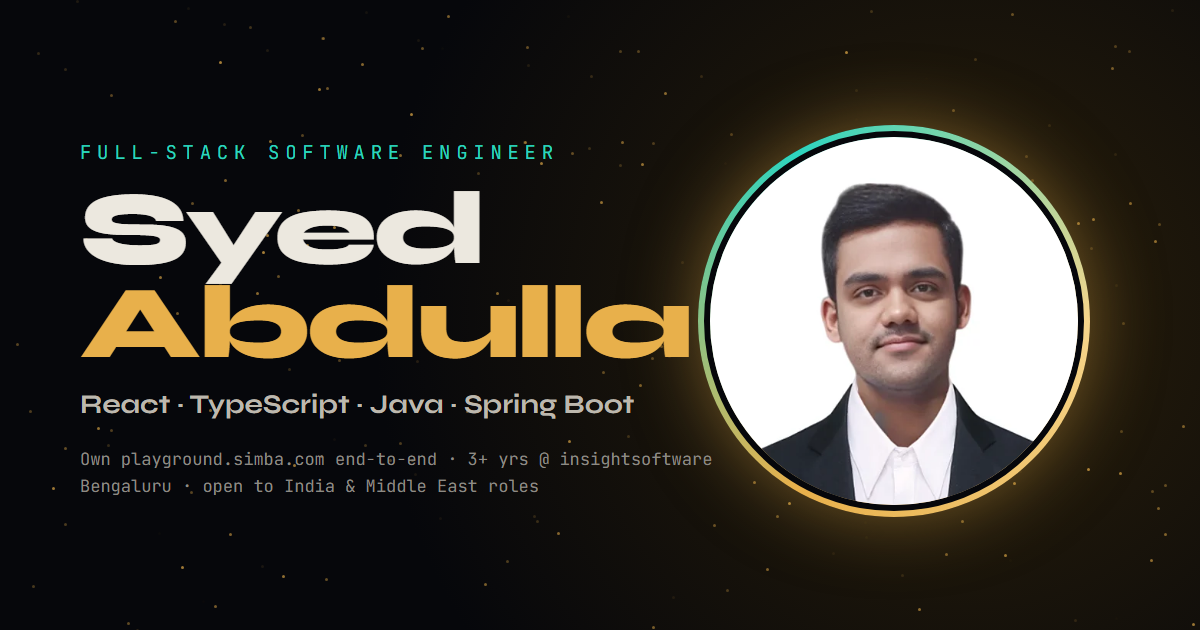
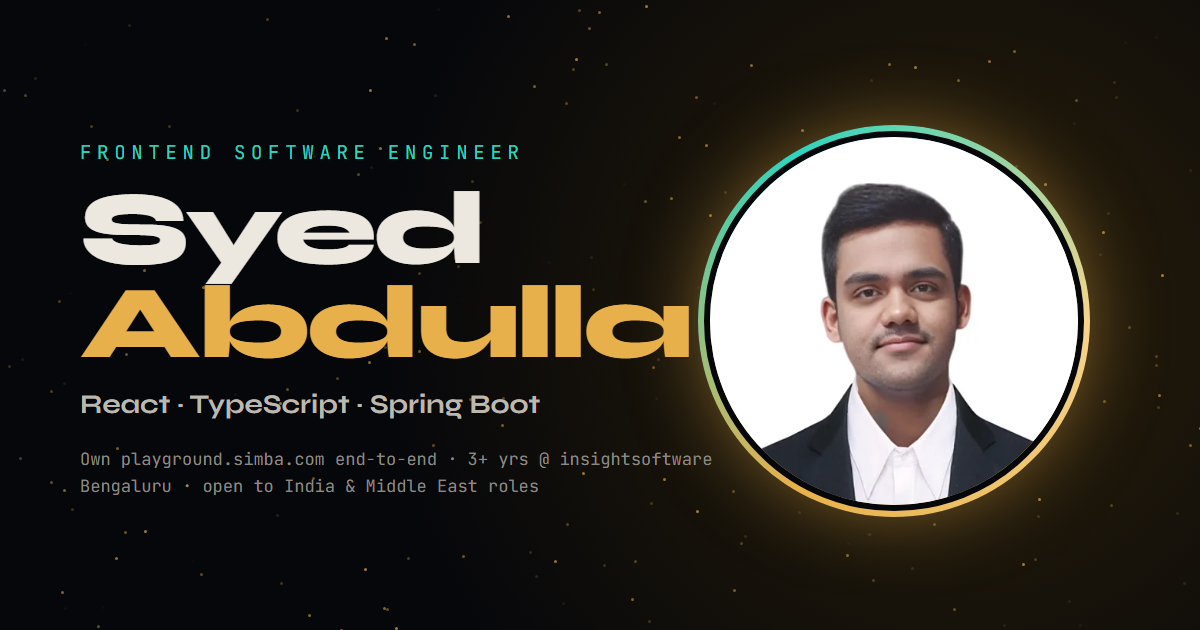
Frontend-first positioning on site and résumé
- Headline/title: Frontend Software Engineer (React · TypeScript), full-stack
  with Spring Boot; backend kept as a supporting strength
- Site (EN + AR), meta/OG/JSON-LD, card, QR vCard, .vcf, manifest, og.png
- Résumé v15 India + GCC headlines and summary; CLAUDE.md records the decision

Changed region(s): [[0.0925, 0.2111, 0.3083, 0.2714], [0.3392, 0.2111, 0.4625, 0.2714], [0.3083, 0.6333, 0.5242, 0.6635]]

diff --git a/index.html b/index.html
@@ -4,9 +4,9 @@
 <meta charset="utf-8" />
 <meta name="viewport" content="width=device-width, initial-scale=1" />
 <title>Syed Abdulla — Software Engineer</title>
-<meta name="description" content="Syed Abdulla — Full-Stack Software Engineer (React · TypeScript · Java · Spring Boot). 3+ years building enterprise BI at insightsoftware, Bengaluru. Owns the public Playground at playground.simba.com end-to-end." />
-<meta property="og:title" content="Syed Abdulla — Full-Stack Software Engineer" />
-<meta property="og:description" content="React · TypeScript · Java · Spring Boot. Enterprise data visualization, 42% bundle cuts, WCAG, end-to-end ownership." />
+<meta name="description" content="Syed Abdulla — Frontend Software Engineer (React · TypeScript) with full-stack Spring Boot experience. 3+ years building enterprise BI at insightsoftware, Bengaluru. Owns the public Playground at playground.simba.com end-to-end." />
+<meta property="og:title" content="Syed Abdulla — Frontend Software Engineer" />
+<meta property="og:description" content="React · TypeScript, full-stack with Spring Boot. Enterprise data visualization, 42% bundle cuts, WCAG, end-to-end ownership." />
 <meta property="og:type" content="website" />
 <meta property="og:url" content="https://syedabdulla761.github.io/" />
 <meta property="og:image" content="https://syedabdulla761.github.io/og.png" />
@@ -14,7 +14,7 @@
 <meta name="twitter:card" content="summary_large_image" />
 <meta name="twitter:image" content="https://syedabdulla761.github.io/og.png" />
 <script type="application/ld+json">
-{"@context":"https://schema.org","@type":"Person","name":"Syed Abdulla","jobTitle":"Full-Stack Software Engineer","worksFor":{"@type":"Organization","name":"insightsoftware"},"address":{"@type":"PostalAddress","addressLocality":"Bengaluru","addressCountry":"IN"},"email":"mailto:syedabdulla761@gmail.com","url":"https://syedabdulla761.github.io/","sameAs":["https://www.linkedin.com/in/syed-abdulla-6467311b6/","https://github.com/syedabdulla761"],"alumniOf":"University Visvesvaraya College of Engineering","knowsAbout":["React","TypeScript","Java","Spring Boot","PostgreSQL","AG-Grid","WCAG"]}
+{"@context":"https://schema.org","@type":"Person","name":"Syed Abdulla","jobTitle":"Frontend Software Engineer","worksFor":{"@type":"Organization","name":"insightsoftware"},"address":{"@type":"PostalAddress","addressLocality":"Bengaluru","addressCountry":"IN"},"email":"mailto:syedabdulla761@gmail.com","url":"https://syedabdulla761.github.io/","sameAs":["https://www.linkedin.com/in/syed-abdulla-6467311b6/","https://github.com/syedabdulla761"],"alumniOf":"University Visvesvaraya College of Engineering","knowsAbout":["React","TypeScript","Java","Spring Boot","PostgreSQL","AG-Grid","WCAG"]}
 </script>
 <link rel="manifest" href="manifest.webmanifest" />
 <link rel="apple-touch-icon" href="icon-192.png" />
@@ -57,7 +57,7 @@
       <span class="line"><span class="reveal">Syed</span></span>
       <span class="line"><span class="reveal gold">Abdulla</span></span>
     </h1>
-    <p class="role">Full-Stack Software Engineer <b>·</b> React <b>·</b> TypeScript <b>·</b> Java <b>·</b> Spring Boot</p>
+    <p class="role">Frontend Software Engineer <b>·</b> React <b>·</b> TypeScript <b>·</b> full-stack with Spring Boot</p>
     <p class="tag"><span id="tag-pre">I build</span> <em id="typer"></em><span class="caret">|</span></p>
     <div class="hero-cta">
       <a href="#work" class="btn magnetic">View my work</a>
@@ -79,7 +79,7 @@
         <h2>Engineering with <span class="gold">ownership</span>, precision &amp; craft.</h2>
       </div>
       <div class="glass">
-        <p>Software Engineer with <b>3+ years</b> specialising in high-performance React architectures and enterprise data visualisation — now full-stack with <b>Spring Boot</b>.</p>
+        <p>Software Engineer with <b>3+ years</b> specialising in high-performance React architectures, data-heavy UIs and accessibility — with hands-on <b>Spring Boot</b> backend experience.</p>
         <p>I independently own high-impact features end-to-end — from library migrations and UI unifications to WCAG compliance — while maintaining <b>zero-spillover</b> sprint delivery.</p>
         <div class="badges">
           <span>🎓 UVCE CSE '23 · CGPA 9.09</span>
@@ -243,16 +243,16 @@
     <div class="wrap center">
       <div class="eyebrow">07 — Contact</div>
       <h2 class="big">Let's build something<br/><span class="gold">remarkable</span>.</h2>
-      <p class="sub">From Bengaluru to Dubai, Riyadh, Doha &amp; beyond — I'm open to conversations about full-stack and frontend-heavy roles.</p>
+      <p class="sub">From Bengaluru to Dubai, Riyadh, Doha &amp; beyond — I'm open to conversations about frontend and frontend-heavy full-stack roles.</p>
       <div class="holo-stage">
         <div class="holo-wrap">
           <div class="holo" id="holo" role="button" tabindex="0" aria-label="Business card — tap to flip">
             <div class="face front">
               <div class="hc-top"><span class="logo">S<span>A</span></span><img class="hc-photo" src="img/syed.webp" alt="" width="480" height="480" loading="lazy" decoding="async" /></div>
               <div class="hc-name">Syed Abdulla</div>
-              <div class="hc-role">Full-Stack Software Engineer</div>
+              <div class="hc-role">Frontend Software Engineer</div>
               <div class="hc-info"><span>✉ syedabdulla761@gmail.com</span><span>☏ +91 88676 18049</span><span>⌖ Bengaluru · India</span></div>
-              <div class="hc-stack">React · TypeScript · Java · Spring Boot</div>
+              <div class="hc-stack">React · TypeScript · Spring Boot</div>
               <div class="foil"></div>
             </div>
             <div class="face back">
@@ -303,10 +303,10 @@
     <button class="quick-x" id="quick-x" aria-label="Close">×</button>
     <div class="eyebrow">⚡ 30-second summary</div>
     <div class="q-head"><img src="img/syed.webp" alt="" width="480" height="480" loading="lazy" decoding="async" /><h3>Syed Abdulla</h3></div>
-    <p class="q-role">Full-Stack Software Engineer · insightsoftware</p>
+    <p class="q-role">Frontend Software Engineer · insightsoftware</p>
     <dl>
       <dt>Experience</dt><dd>3+ years (Feb 2023 – present) · Promoted to SE in 2 yrs</dd>
-      <dt>Core stack</dt><dd>React, TypeScript, Java, Spring Boot, PostgreSQL</dd>
+      <dt>Core stack</dt><dd>React, TypeScript, AG-Grid, accessibility (WCAG) · backend: Java, Spring Boot, PostgreSQL</dd>
       <dt>Domain</dt><dd>Enterprise BI &amp; embedded analytics — Simba (formerly Logi Symphony)</dd>
       <dt>Highlights</dt><dd>Own the public Playground end-to-end (playground.simba.com) · −42% grid bundle · 305 Jira tickets (95 bugs, 4 spikes) · +40% WCAG · 0 sprint spillovers</dd>
       <dt>Education</dt><dd>B.Tech CSE, UVCE Bengaluru · CGPA 9.09 · Siemens Scholar</dd>

diff --git a/main.js b/main.js
@@ -673,7 +673,7 @@ const AR_SRC = [
   ['.nav nav a[href="#about"]', 'نبذة عني'], ['.nav nav a[href="#impact"]', 'الإنجازات'], ['.nav nav a[href="#playground"]', 'Playground'], ['.nav nav a[href="#work"]', 'الخبرات'],
   ['.nav nav a[href="#skills"]', 'المهارات'], ['.nav nav a[href="#live"]', 'مباشر'], ['.nav nav a[href="#contact"]', 'تواصل'], ['#cv', 'السيرة الذاتية ↓'],
   // hero
-  ['.role', 'مهندس برمجيات Full-Stack <b>·</b> React <b>·</b> TypeScript <b>·</b> Java <b>·</b> Spring Boot'],
+  ['.role', 'مهندس برمجيات Frontend <b>·</b> React <b>·</b> TypeScript <b>·</b> Full-Stack مع Spring Boot'],
   ['#tag-pre', 'أبني'],
   ['.hero-cta a[href="#work"]', 'استعرض أعمالي'], ['.hero-cta a[href="#contact"]', 'لنتحدث'], ['#quick-btn', '⚡ ملخص في 30 ثانية'],
   ['.hero-meta', '<span>📍 بنغالورو، الهند</span><span>🌍 منفتح على فرص العمل في الهند والشرق الأوسط</span><span>🟢 أكثر من 3 سنوات · insightsoftware</span>'],
@@ -682,7 +682,7 @@ const AR_SRC = [
   ['#about .eyebrow', '01 — نبذة عني'],
   ['#about h2', 'هندسة برمجيات بروح <span class="gold">المسؤولية</span> والدقة والإتقان.'],
   ['#about .glass > p', [
-    'مهندس برمجيات بخبرة تزيد على <b>3 سنوات</b>، متخصص في تطبيقات React عالية الأداء و Data Visualization للمؤسسات — وأعمل الآن على الـ Full-Stack مع <b>Spring Boot</b>.',
+    'مهندس برمجيات بخبرة تزيد على <b>3 سنوات</b>، متخصص في تطبيقات React عالية الأداء والواجهات الغنية بالبيانات وإمكانية الوصول — مع خبرة عملية في الـ backend باستخدام <b>Spring Boot</b>.',
     'أتولى الميزات المهمة بنفسي من البداية إلى النهاية — من ترقية المكتبات وتوحيد الواجهات إلى معايير WCAG — مع تسليم كل sprint في موعده <b>دون أي تأخير</b>.']],
   ['#about .badges span', ['🎓 UVCE علوم الحاسب 2023 · المعدل 9.09', '🏅 منحة سيمنس', '⭐ «يفوق التوقعات» مرتين', '🚀 ترقية إلى Software Engineer خلال عامين']],
   ['#about blockquote', '«ملكية حقيقية للعمل، ومهارة تقنية، وروح تعاون.» <cite>— تقييم المدير</cite>'],
@@ -751,7 +751,7 @@ const AR_SRC = [
   // contact
   ['#contact .eyebrow', '07 — تواصل'],
   ['#contact h2', 'لنبنِ معًا شيئًا<br/><span class="gold">استثنائيًا</span>.'],
-  ['#contact .sub', 'من بنغالورو إلى دبي والرياض والدوحة وما بعدها — منفتح على فرص العمل في Frontend و Full-Stack.'],
+  ['#contact .sub', 'من بنغالورو إلى دبي والرياض والدوحة وما بعدها — منفتح على فرص العمل في Frontend و Full-Stack التي يغلب عليها الـ Frontend.'],
   ['.holo-hint', '↔ اسحب البطاقة لتدويرها · اضغط لقلبها'], ['.hc-scan', 'امسح لحفظ جهة الاتصال'], ['.hc-url', 'الاسم · الهاتف · البريد · LinkedIn — مباشرة إلى هاتفك'], ['.holo-actions a', '📇 حفظ جهة الاتصال'],
   ['.contact-row a[href^="https://wa.me"]', 'واتساب'],
   ['.clocks small', ['بنغالورو', 'دبي', 'الرياض', 'الدوحة']],
@@ -760,10 +760,10 @@ const AR_SRC = [
   ['.dock a', ['<span>⌂</span>الرئيسية', '<span>◉</span>مباشر', '<span>▤</span>الخبرات', '<span>✉</span>تواصل']], ['#dock-k', '<span>⌘</span>القائمة'],
   ['#ghint', '<span class="desk">✦ <b>اسحب</b> للتدوير · <b>اضغط مطوّلًا</b> لثقب أسود · <b>اضغط</b> لموجة صادمة · 🔇 شغّل <b>الصوت</b> للعزف</span><span class="touch">✦ <b>اسحب</b> للتدوير · <b>اضغط مطوّلًا</b> لثقب أسود · <b>اضغط</b> لموجة صادمة</span>'],
   // 30-second summary
-  ['#quick .eyebrow', '⚡ ملخص في 30 ثانية'], ['#quick .q-role', 'Full-Stack Software Engineer · insightsoftware'],
+  ['#quick .eyebrow', '⚡ ملخص في 30 ثانية'], ['#quick .q-role', 'Frontend Software Engineer · insightsoftware'],
   ['#quick dt', ['الخبرة', 'التقنيات', 'المجال', 'أبرز الإنجازات', 'التعليم', 'التقييمات', 'اللغات', 'الموقع', 'الجاهزية']],
   ['#quick dd', [
-    'أكثر من 3 سنوات (فبراير 2023 – الآن) · ترقية خلال عامين', 'React، TypeScript، Java، Spring Boot، PostgreSQL',
+    'أكثر من 3 سنوات (فبراير 2023 – الآن) · ترقية خلال عامين', 'React، TypeScript، AG-Grid، WCAG · الـ backend: Java، Spring Boot، PostgreSQL',
     'Enterprise BI و embedded analytics — Simba (سابقًا Logi Symphony)',
     'أتولى منصة Playground العامة (playground.simba.com) · تقليص الـ grid bundle بنسبة 42% · 305 تذكرة Jira (95 خطأ، 4 spikes) · تحسين WCAG بنسبة 40% · تسليم كل sprint دون تأخير',
     'بكالوريوس علوم الحاسب، UVCE بنغالورو · المعدل 9.09 · منحة سيمنس', '«يفوق التوقعات» في 2025 و2026',

diff --git a/extras.js b/extras.js
@@ -136,7 +136,7 @@ const flipCard = () => { drag = { start: angle }; settle(Math.round(angle / 180)
 // QR code (qrcode-generator, loaded globally) → portfolio URL
 try {
   // A vCard, not the site URL: whoever scans it is already here — give them a way to keep in touch
-  const VCARD = ['BEGIN:VCARD', 'VERSION:3.0', 'N:Abdulla;Syed;;;', 'FN:Syed Abdulla', 'TITLE:Full-Stack Software Engineer', 'ORG:insightsoftware',
+  const VCARD = ['BEGIN:VCARD', 'VERSION:3.0', 'N:Abdulla;Syed;;;', 'FN:Syed Abdulla', 'TITLE:Frontend Software Engineer', 'ORG:insightsoftware',
     'TEL;TYPE=CELL:+918867618049', 'EMAIL:syedabdulla761@gmail.com', 'URL:https://www.linkedin.com/in/syed-abdulla-6467311b6/',
     'URL:https://syedabdulla761.github.io/', 'ADR:;;;Bengaluru;;;India', 'END:VCARD'].join('\r\n');
   const qr = window.qrcode(0, 'L'); qr.addData(VCARD); qr.make();

diff --git a/sw.js b/sw.js
@@ -1,5 +1,5 @@
 // Network-first service worker: always fresh when online, still works offline.
-const CACHE = 'sa-portfolio-v12';
+const CACHE = 'sa-portfolio-v13';
 const CORE = ['./', 'index.html', 'style.css', 'main.js', 'extras.js', 'favicon.svg', 'icon-192.png', 'img/syed.webp', 'Syed_Abdulla_Resume.pdf'];
 
 self.addEventListener('install', e => {

diff --git a/CLAUDE.md b/CLAUDE.md
@@ -12,6 +12,7 @@ Read this whole file before changing anything. It records what was built, why, w
 - **Audience:** tech hirers in **India and the Middle East / GCC** (Dubai, Riyadh, Doha). Syed is open to roles in both.
 - **Goal:** a portfolio that is *memorable* (a layman should enjoy exploring it) **and** *recruiter-practical* (facts, résumé, contact in seconds).
 - **Look:** dark cosmic theme — near-black background, gold `#e8b04b` / ivory / teal `#2dd4bf` accents, glowing Three.js particles with bloom. The **8-pointed Khatam star** (two rotated squares) is the recurring motif: favicon, loader, cursor, card watermark, a particle shape. Nods to Indian + Islamic geometric art.
+- **Positioning: frontend specialist who works across the stack** (decided 2026-10-12). Lead with React/TypeScript, AG-Grid, accessibility; mention Spring Boot as "full-stack with Spring Boot" / "hands-on backend experience". Don't put Java/Spring Boot in headlines — backend work is recent and largely agent-assisted, and backend-led headlines route him to backend-depth interviews. Keep the Backend skills line and the folder bullet.
 - **Tone:** confident, metric-led. The résumé's real numbers carry the site.
 
 ## 2. Hard-won preferences (follow these)
@@ -42,7 +43,7 @@ Read this whole file before changing anything. It records what was built, why, w
 | `style.css` | All styles; tokens in `:root`; Arabic/RTL rules under `html[lang=ar]` / `[dir=rtl]` |
 | `main.js` (ES module) | Three.js scene: 16K particles desktop / 12K mobile morphing between shapes per section, bloom (UnrealBloomPass), gestures (tap = shockwave, hold = black hole, drag = orbit), gyro parallax, WebAudio sound (harp strum, scroll filter, rumble), reveals/counters/scramble, Lenis, i18n (`AR_SRC`), ⌘K palette (`ACTIONS`), cursor. Exposes `window.SA` (event bus `SA.emit/on`, `tone/pluck/boom`, `setShape`, `shockwave`, `scrollTo`, `actions`, `toast`, …) |
 | `extras.js` (module, loads after main) | Live tiles (IST clock/status, Open-Meteo weather, visitor-timezone overlap, career counter), holographic card (drag/flick spin, QR via `qrcode-generator`), exploration game (8 hidden bugs on real content + 14 achievements, progress in `localStorage` key `sa-progress-v1`), Playground screen carousel |
-| `sw.js` | Network-first service worker. **Bump `CACHE` (currently `sa-portfolio-v12`) on every deploy.** |
+| `sw.js` | Network-first service worker. **Bump `CACHE` (currently `sa-portfolio-v13`) on every deploy.** |
 | `img/` | Playground screenshots (WebP), `playground-themes.gif`, headshot `syed.webp/.jpg` (square) + `syed-round.png` (résumé). Source photos (`mypicproff.png` = chosen, blazer; `OrigPic.jpg`) are git-ignored and stay local |
 | `Syed_Abdulla_Resume.pdf/.docx` | Résumé served by the site (generated from v14, see §6) |
 | `Syed_Abdulla.vcf`, `manifest.webmanifest`, `icon-*.png`, `favicon.svg`, `og.png` | Contact card, PWA, icons, link preview |
